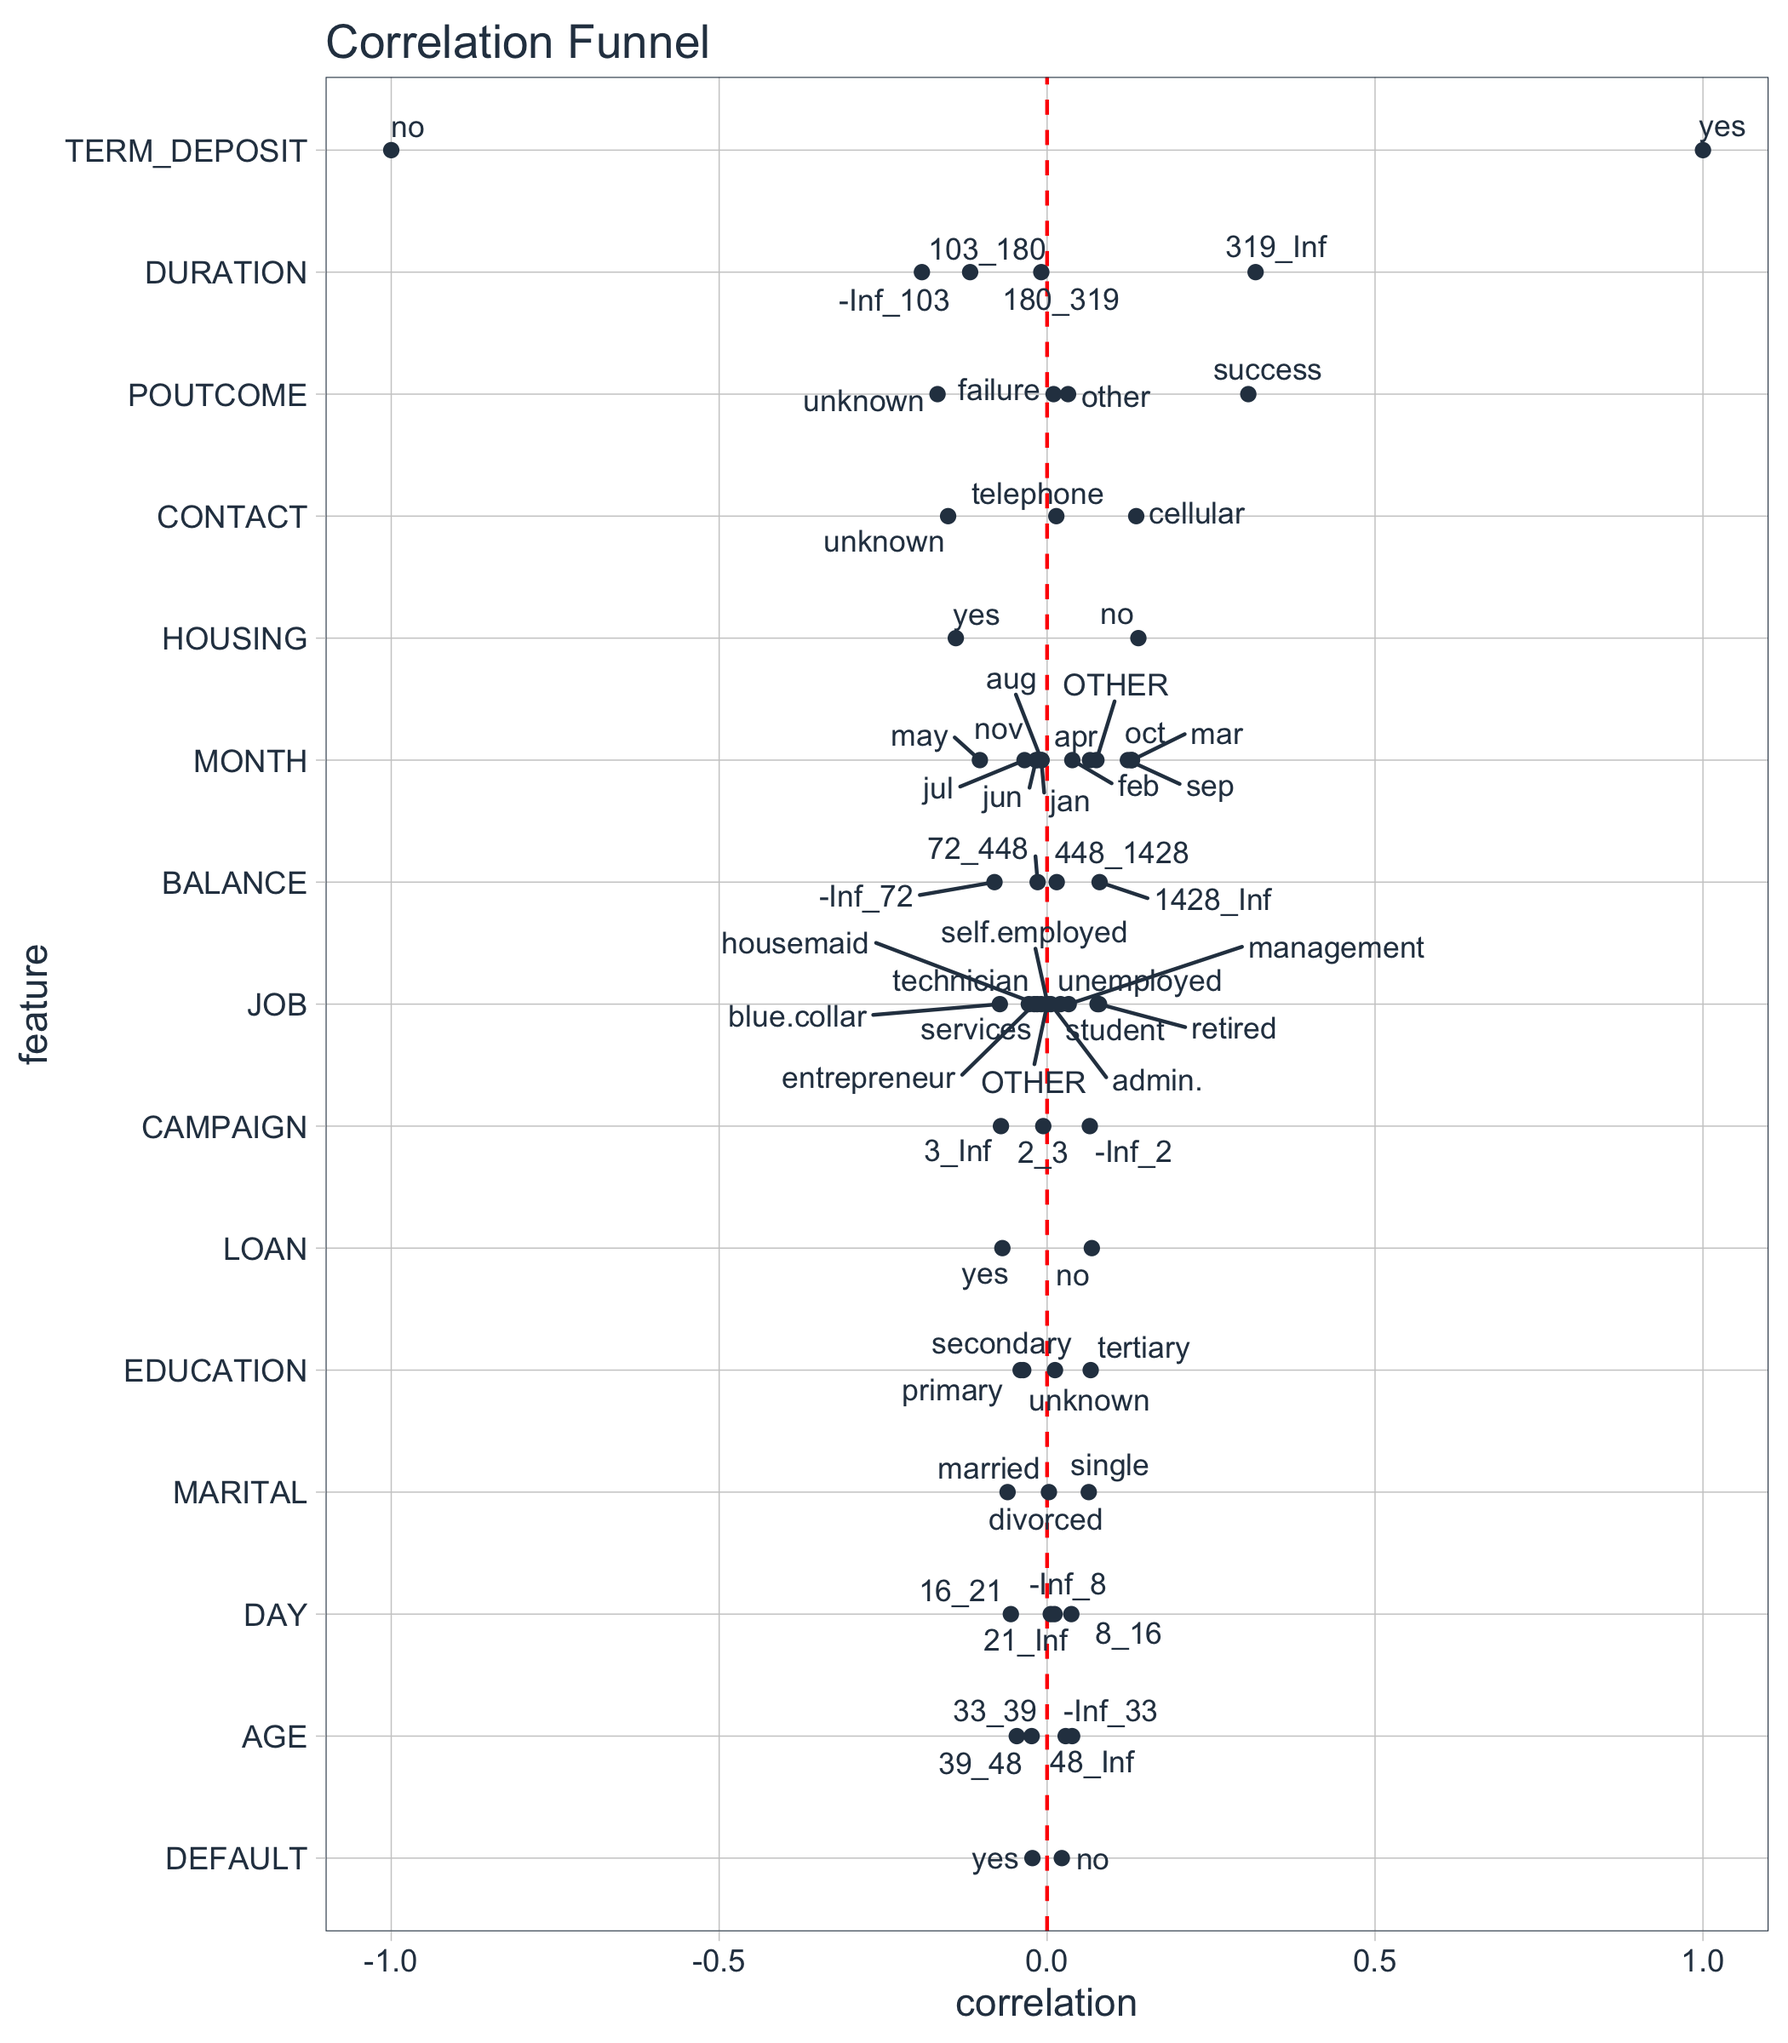
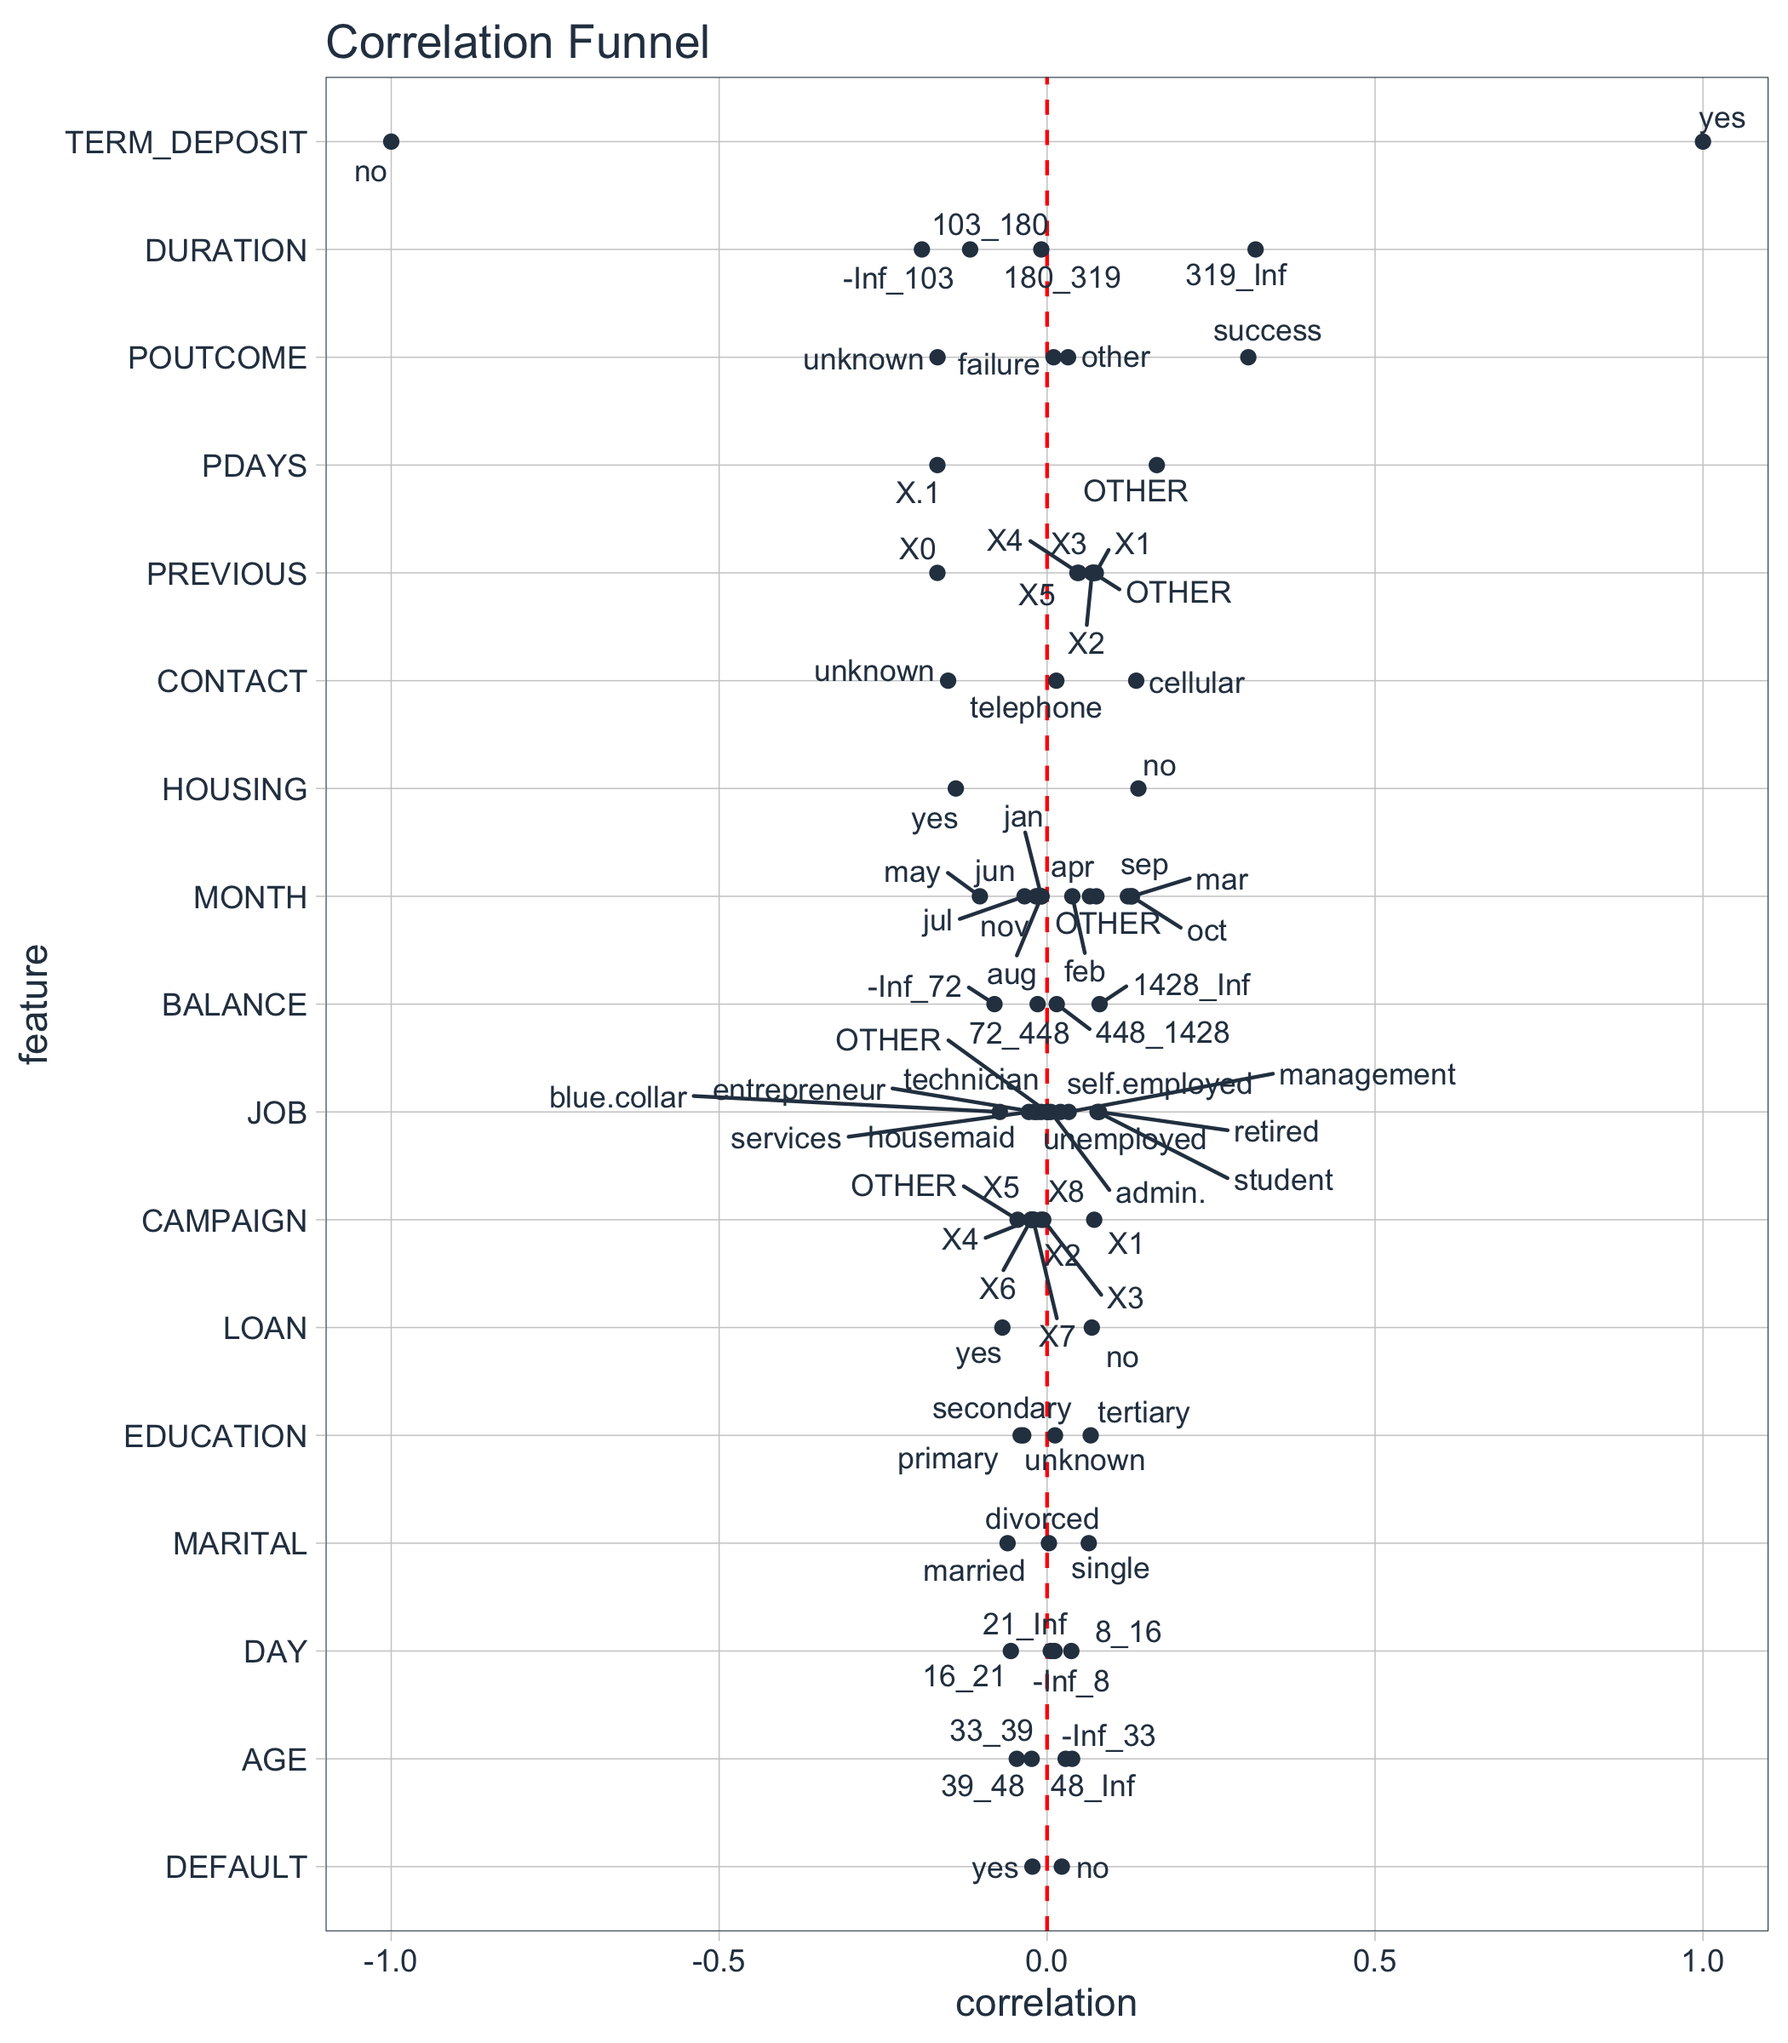
update readme

diff --git a/README.md b/README.md
@@ -135,51 +135,98 @@ binary (0/1) format. We de-select any non-predictive features. The
   - **Categorical Features**: Are binned by one-hot encoding
 
 The result is a data frame that has only binary data with columns
-representing the bins that the observations fall into.
+representing the bins that the observations fall into. Note that the
+output is shown in the `glimpse()` format. THere are now 80 columns that
+are binary (0/1).
 
 ``` r
 marketing_campaign_binarized_tbl <- marketing_campaign_tbl %>%
     select(-ID) %>%
     binarize(n_bins = 4, thresh_infreq = 0.01)
 
-marketing_campaign_binarized_tbl
-#> # A tibble: 45,211 x 65
-#>    `AGE__-Inf_33` AGE__33_39 AGE__39_48 AGE__48_Inf JOB__admin.
-#>             <dbl>      <dbl>      <dbl>       <dbl>       <dbl>
-#>  1              0          0          0           1           0
-#>  2              0          0          1           0           0
-#>  3              1          0          0           0           0
-#>  4              0          0          1           0           0
-#>  5              1          0          0           0           0
-#>  6              0          1          0           0           0
-#>  7              1          0          0           0           0
-#>  8              0          0          1           0           0
-#>  9              0          0          0           1           0
-#> 10              0          0          1           0           0
-#> # … with 45,201 more rows, and 60 more variables: JOB__blue.collar <dbl>,
-#> #   JOB__entrepreneur <dbl>, JOB__housemaid <dbl>, JOB__management <dbl>,
-#> #   JOB__retired <dbl>, JOB__self.employed <dbl>, JOB__services <dbl>,
-#> #   JOB__student <dbl>, JOB__technician <dbl>, JOB__unemployed <dbl>,
-#> #   JOB__OTHER <dbl>, MARITAL__divorced <dbl>, MARITAL__married <dbl>,
-#> #   MARITAL__single <dbl>, EDUCATION__primary <dbl>,
-#> #   EDUCATION__secondary <dbl>, EDUCATION__tertiary <dbl>,
-#> #   EDUCATION__unknown <dbl>, DEFAULT__no <dbl>, DEFAULT__yes <dbl>,
-#> #   `BALANCE__-Inf_72` <dbl>, BALANCE__72_448 <dbl>,
-#> #   BALANCE__448_1428 <dbl>, BALANCE__1428_Inf <dbl>, HOUSING__no <dbl>,
-#> #   HOUSING__yes <dbl>, LOAN__no <dbl>, LOAN__yes <dbl>,
-#> #   CONTACT__cellular <dbl>, CONTACT__telephone <dbl>,
-#> #   CONTACT__unknown <dbl>, `DAY__-Inf_8` <dbl>, DAY__8_16 <dbl>,
-#> #   DAY__16_21 <dbl>, DAY__21_Inf <dbl>, MONTH__apr <dbl>,
-#> #   MONTH__aug <dbl>, MONTH__feb <dbl>, MONTH__jan <dbl>,
-#> #   MONTH__jul <dbl>, MONTH__jun <dbl>, MONTH__mar <dbl>,
-#> #   MONTH__may <dbl>, MONTH__nov <dbl>, MONTH__oct <dbl>,
-#> #   MONTH__sep <dbl>, MONTH__OTHER <dbl>, `DURATION__-Inf_103` <dbl>,
-#> #   DURATION__103_180 <dbl>, DURATION__180_319 <dbl>,
-#> #   DURATION__319_Inf <dbl>, `CAMPAIGN__-Inf_2` <dbl>,
-#> #   CAMPAIGN__2_3 <dbl>, CAMPAIGN__3_Inf <dbl>, POUTCOME__failure <dbl>,
-#> #   POUTCOME__other <dbl>, POUTCOME__success <dbl>,
-#> #   POUTCOME__unknown <dbl>, TERM_DEPOSIT__no <dbl>,
-#> #   TERM_DEPOSIT__yes <dbl>
+marketing_campaign_binarized_tbl %>% glimpse()
+#> Observations: 45,211
+#> Variables: 80
+#> $ `AGE__-Inf_33`       <dbl> 0, 0, 1, 0, 1, 0, 1, 0, 0, 0, 0, 1, 0, 0, 0…
+#> $ AGE__33_39           <dbl> 0, 0, 0, 0, 0, 1, 0, 0, 0, 0, 0, 0, 0, 0, 0…
+#> $ AGE__39_48           <dbl> 0, 1, 0, 1, 0, 0, 0, 1, 0, 1, 1, 0, 0, 0, 0…
+#> $ AGE__48_Inf          <dbl> 1, 0, 0, 0, 0, 0, 0, 0, 1, 0, 0, 0, 1, 1, 1…
+#> $ JOB__admin.          <dbl> 0, 0, 0, 0, 0, 0, 0, 0, 0, 0, 1, 1, 0, 0, 0…
+#> $ JOB__blue.collar     <dbl> 0, 0, 0, 1, 0, 0, 0, 0, 0, 0, 0, 0, 0, 0, 0…
+#> $ JOB__entrepreneur    <dbl> 0, 0, 1, 0, 0, 0, 0, 1, 0, 0, 0, 0, 0, 0, 0…
+#> $ JOB__housemaid       <dbl> 0, 0, 0, 0, 0, 0, 0, 0, 0, 0, 0, 0, 0, 0, 0…
+#> $ JOB__management      <dbl> 1, 0, 0, 0, 0, 1, 1, 0, 0, 0, 0, 0, 0, 0, 0…
+#> $ JOB__retired         <dbl> 0, 0, 0, 0, 0, 0, 0, 0, 1, 0, 0, 0, 0, 0, 0…
+#> $ JOB__self.employed   <dbl> 0, 0, 0, 0, 0, 0, 0, 0, 0, 0, 0, 0, 0, 0, 0…
+#> $ JOB__services        <dbl> 0, 0, 0, 0, 0, 0, 0, 0, 0, 0, 0, 0, 0, 0, 1…
+#> $ JOB__student         <dbl> 0, 0, 0, 0, 0, 0, 0, 0, 0, 0, 0, 0, 0, 0, 0…
+#> $ JOB__technician      <dbl> 0, 1, 0, 0, 0, 0, 0, 0, 0, 1, 0, 0, 1, 1, 0…
+#> $ JOB__unemployed      <dbl> 0, 0, 0, 0, 0, 0, 0, 0, 0, 0, 0, 0, 0, 0, 0…
+#> $ JOB__OTHER           <dbl> 0, 0, 0, 0, 1, 0, 0, 0, 0, 0, 0, 0, 0, 0, 0…
+#> $ MARITAL__divorced    <dbl> 0, 0, 0, 0, 0, 0, 0, 1, 0, 0, 1, 0, 0, 0, 0…
+#> $ MARITAL__married     <dbl> 1, 0, 1, 1, 0, 1, 0, 0, 1, 0, 0, 0, 1, 1, 1…
+#> $ MARITAL__single      <dbl> 0, 1, 0, 0, 1, 0, 1, 0, 0, 1, 0, 1, 0, 0, 0…
+#> $ EDUCATION__primary   <dbl> 0, 0, 0, 0, 0, 0, 0, 0, 1, 0, 0, 0, 0, 0, 0…
+#> $ EDUCATION__secondary <dbl> 0, 1, 1, 0, 0, 0, 0, 0, 0, 1, 1, 1, 1, 0, 1…
+#> $ EDUCATION__tertiary  <dbl> 1, 0, 0, 0, 0, 1, 1, 1, 0, 0, 0, 0, 0, 0, 0…
+#> $ EDUCATION__unknown   <dbl> 0, 0, 0, 1, 1, 0, 0, 0, 0, 0, 0, 0, 0, 1, 0…
+#> $ DEFAULT__no          <dbl> 1, 1, 1, 1, 1, 1, 1, 0, 1, 1, 1, 1, 1, 1, 1…
+#> $ DEFAULT__yes         <dbl> 0, 0, 0, 0, 0, 0, 0, 1, 0, 0, 0, 0, 0, 0, 0…
+#> $ `BALANCE__-Inf_72`   <dbl> 0, 1, 1, 0, 1, 0, 0, 1, 0, 0, 0, 0, 1, 1, 0…
+#> $ BALANCE__72_448      <dbl> 0, 0, 0, 0, 0, 1, 1, 0, 1, 0, 1, 1, 0, 0, 1…
+#> $ BALANCE__448_1428    <dbl> 0, 0, 0, 0, 0, 0, 0, 0, 0, 1, 0, 0, 0, 0, 0…
+#> $ BALANCE__1428_Inf    <dbl> 1, 0, 0, 1, 0, 0, 0, 0, 0, 0, 0, 0, 0, 0, 0…
+#> $ HOUSING__no          <dbl> 0, 0, 0, 0, 1, 0, 0, 0, 0, 0, 0, 0, 0, 0, 0…
+#> $ HOUSING__yes         <dbl> 1, 1, 1, 1, 0, 1, 1, 1, 1, 1, 1, 1, 1, 1, 1…
+#> $ LOAN__no             <dbl> 1, 1, 0, 1, 1, 1, 0, 1, 1, 1, 1, 1, 1, 1, 1…
+#> $ LOAN__yes            <dbl> 0, 0, 1, 0, 0, 0, 1, 0, 0, 0, 0, 0, 0, 0, 0…
+#> $ CONTACT__cellular    <dbl> 0, 0, 0, 0, 0, 0, 0, 0, 0, 0, 0, 0, 0, 0, 0…
+#> $ CONTACT__telephone   <dbl> 0, 0, 0, 0, 0, 0, 0, 0, 0, 0, 0, 0, 0, 0, 0…
+#> $ CONTACT__unknown     <dbl> 1, 1, 1, 1, 1, 1, 1, 1, 1, 1, 1, 1, 1, 1, 1…
+#> $ `DAY__-Inf_8`        <dbl> 1, 1, 1, 1, 1, 1, 1, 1, 1, 1, 1, 1, 1, 1, 1…
+#> $ DAY__8_16            <dbl> 0, 0, 0, 0, 0, 0, 0, 0, 0, 0, 0, 0, 0, 0, 0…
+#> $ DAY__16_21           <dbl> 0, 0, 0, 0, 0, 0, 0, 0, 0, 0, 0, 0, 0, 0, 0…
+#> $ DAY__21_Inf          <dbl> 0, 0, 0, 0, 0, 0, 0, 0, 0, 0, 0, 0, 0, 0, 0…
+#> $ MONTH__apr           <dbl> 0, 0, 0, 0, 0, 0, 0, 0, 0, 0, 0, 0, 0, 0, 0…
+#> $ MONTH__aug           <dbl> 0, 0, 0, 0, 0, 0, 0, 0, 0, 0, 0, 0, 0, 0, 0…
+#> $ MONTH__feb           <dbl> 0, 0, 0, 0, 0, 0, 0, 0, 0, 0, 0, 0, 0, 0, 0…
+#> $ MONTH__jan           <dbl> 0, 0, 0, 0, 0, 0, 0, 0, 0, 0, 0, 0, 0, 0, 0…
+#> $ MONTH__jul           <dbl> 0, 0, 0, 0, 0, 0, 0, 0, 0, 0, 0, 0, 0, 0, 0…
+#> $ MONTH__jun           <dbl> 0, 0, 0, 0, 0, 0, 0, 0, 0, 0, 0, 0, 0, 0, 0…
+#> $ MONTH__mar           <dbl> 0, 0, 0, 0, 0, 0, 0, 0, 0, 0, 0, 0, 0, 0, 0…
+#> $ MONTH__may           <dbl> 1, 1, 1, 1, 1, 1, 1, 1, 1, 1, 1, 1, 1, 1, 1…
+#> $ MONTH__nov           <dbl> 0, 0, 0, 0, 0, 0, 0, 0, 0, 0, 0, 0, 0, 0, 0…
+#> $ MONTH__oct           <dbl> 0, 0, 0, 0, 0, 0, 0, 0, 0, 0, 0, 0, 0, 0, 0…
+#> $ MONTH__sep           <dbl> 0, 0, 0, 0, 0, 0, 0, 0, 0, 0, 0, 0, 0, 0, 0…
+#> $ MONTH__OTHER         <dbl> 0, 0, 0, 0, 0, 0, 0, 0, 0, 0, 0, 0, 0, 0, 0…
+#> $ `DURATION__-Inf_103` <dbl> 0, 0, 1, 1, 0, 0, 0, 0, 1, 1, 0, 0, 0, 1, 0…
+#> $ DURATION__103_180    <dbl> 0, 1, 0, 0, 0, 1, 0, 0, 0, 0, 0, 1, 0, 0, 1…
+#> $ DURATION__180_319    <dbl> 1, 0, 0, 0, 1, 0, 1, 0, 0, 0, 1, 0, 0, 0, 0…
+#> $ DURATION__319_Inf    <dbl> 0, 0, 0, 0, 0, 0, 0, 1, 0, 0, 0, 0, 1, 0, 0…
+#> $ CAMPAIGN__X1         <dbl> 1, 1, 1, 1, 1, 1, 1, 1, 1, 1, 1, 1, 1, 1, 1…
+#> $ CAMPAIGN__X2         <dbl> 0, 0, 0, 0, 0, 0, 0, 0, 0, 0, 0, 0, 0, 0, 0…
+#> $ CAMPAIGN__X3         <dbl> 0, 0, 0, 0, 0, 0, 0, 0, 0, 0, 0, 0, 0, 0, 0…
+#> $ CAMPAIGN__X4         <dbl> 0, 0, 0, 0, 0, 0, 0, 0, 0, 0, 0, 0, 0, 0, 0…
+#> $ CAMPAIGN__X5         <dbl> 0, 0, 0, 0, 0, 0, 0, 0, 0, 0, 0, 0, 0, 0, 0…
+#> $ CAMPAIGN__X6         <dbl> 0, 0, 0, 0, 0, 0, 0, 0, 0, 0, 0, 0, 0, 0, 0…
+#> $ CAMPAIGN__X7         <dbl> 0, 0, 0, 0, 0, 0, 0, 0, 0, 0, 0, 0, 0, 0, 0…
+#> $ CAMPAIGN__X8         <dbl> 0, 0, 0, 0, 0, 0, 0, 0, 0, 0, 0, 0, 0, 0, 0…
+#> $ CAMPAIGN__OTHER      <dbl> 0, 0, 0, 0, 0, 0, 0, 0, 0, 0, 0, 0, 0, 0, 0…
+#> $ PDAYS__X.1           <dbl> 1, 1, 1, 1, 1, 1, 1, 1, 1, 1, 1, 1, 1, 1, 1…
+#> $ PDAYS__OTHER         <dbl> 0, 0, 0, 0, 0, 0, 0, 0, 0, 0, 0, 0, 0, 0, 0…
+#> $ PREVIOUS__X0         <dbl> 1, 1, 1, 1, 1, 1, 1, 1, 1, 1, 1, 1, 1, 1, 1…
+#> $ PREVIOUS__X1         <dbl> 0, 0, 0, 0, 0, 0, 0, 0, 0, 0, 0, 0, 0, 0, 0…
+#> $ PREVIOUS__X2         <dbl> 0, 0, 0, 0, 0, 0, 0, 0, 0, 0, 0, 0, 0, 0, 0…
+#> $ PREVIOUS__X3         <dbl> 0, 0, 0, 0, 0, 0, 0, 0, 0, 0, 0, 0, 0, 0, 0…
+#> $ PREVIOUS__X4         <dbl> 0, 0, 0, 0, 0, 0, 0, 0, 0, 0, 0, 0, 0, 0, 0…
+#> $ PREVIOUS__X5         <dbl> 0, 0, 0, 0, 0, 0, 0, 0, 0, 0, 0, 0, 0, 0, 0…
+#> $ PREVIOUS__OTHER      <dbl> 0, 0, 0, 0, 0, 0, 0, 0, 0, 0, 0, 0, 0, 0, 0…
+#> $ POUTCOME__failure    <dbl> 0, 0, 0, 0, 0, 0, 0, 0, 0, 0, 0, 0, 0, 0, 0…
+#> $ POUTCOME__other      <dbl> 0, 0, 0, 0, 0, 0, 0, 0, 0, 0, 0, 0, 0, 0, 0…
+#> $ POUTCOME__success    <dbl> 0, 0, 0, 0, 0, 0, 0, 0, 0, 0, 0, 0, 0, 0, 0…
+#> $ POUTCOME__unknown    <dbl> 1, 1, 1, 1, 1, 1, 1, 1, 1, 1, 1, 1, 1, 1, 1…
+#> $ TERM_DEPOSIT__no     <dbl> 1, 1, 1, 1, 1, 1, 1, 1, 1, 1, 1, 1, 1, 1, 1…
+#> $ TERM_DEPOSIT__yes    <dbl> 0, 0, 0, 0, 0, 0, 0, 0, 0, 0, 0, 0, 0, 0, 0…
 ```
 
 #### Step 2: Perform Correlation Analysis
@@ -196,7 +243,7 @@ marketing_campaign_correlated_tbl <- marketing_campaign_binarized_tbl %>%
     correlate(target = TERM_DEPOSIT__yes)
 
 marketing_campaign_correlated_tbl
-#> # A tibble: 65 x 3
+#> # A tibble: 80 x 3
 #>    feature      bin      correlation
 #>    <fct>        <chr>          <dbl>
 #>  1 TERM_DEPOSIT no            -1.000
@@ -204,12 +251,12 @@ marketing_campaign_correlated_tbl
 #>  3 DURATION     319_Inf        0.318
 #>  4 POUTCOME     success        0.307
 #>  5 DURATION     -Inf_103      -0.191
-#>  6 POUTCOME     unknown       -0.167
-#>  7 CONTACT      unknown       -0.151
-#>  8 HOUSING      no             0.139
-#>  9 HOUSING      yes           -0.139
-#> 10 CONTACT      cellular       0.136
-#> # … with 55 more rows
+#>  6 PDAYS        OTHER          0.167
+#>  7 PDAYS        X.1           -0.167
+#>  8 PREVIOUS     X0            -0.167
+#>  9 POUTCOME     unknown       -0.167
+#> 10 CONTACT      unknown       -0.151
+#> # … with 70 more rows
 ```
 
 #### Step 3: Visualize the Correlation Funnel
